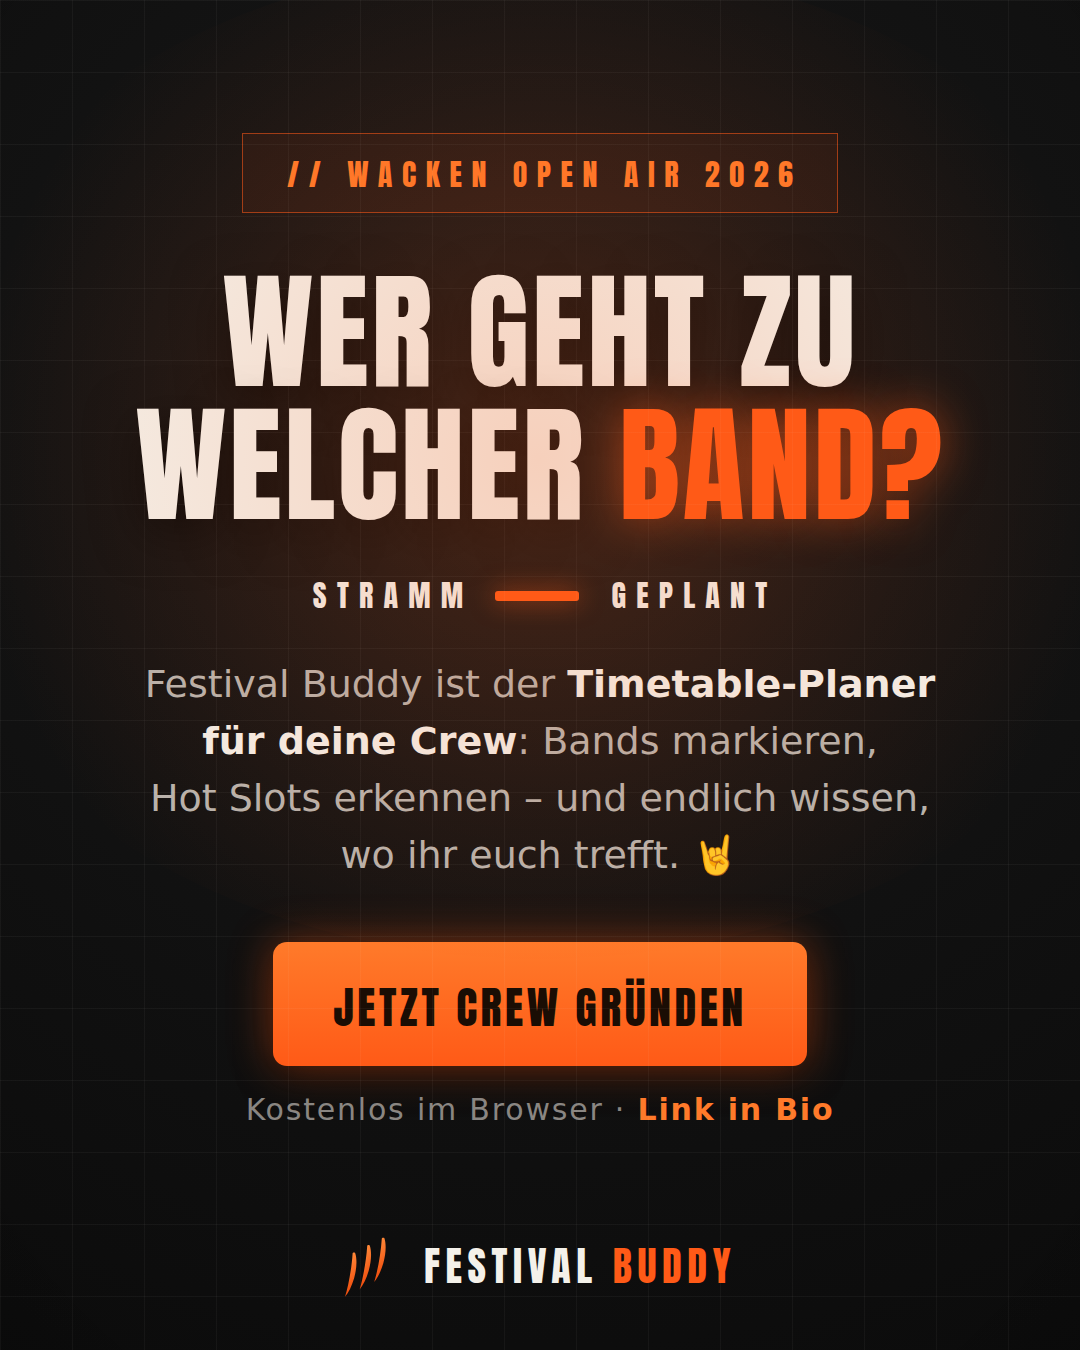
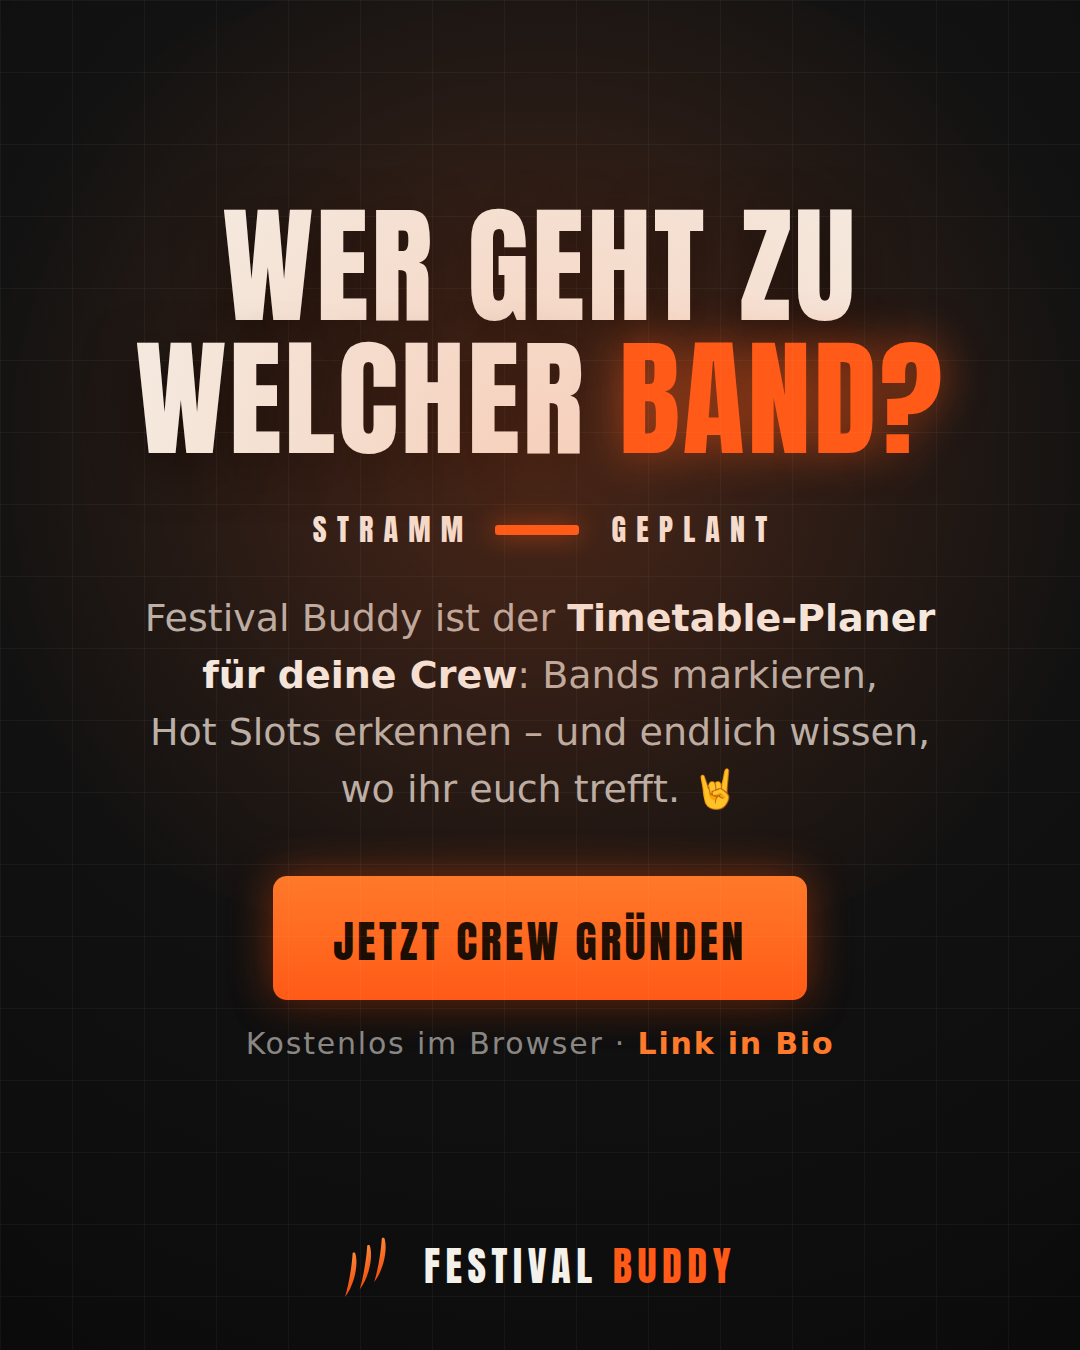
Instagram-Motive: Wacken-Badge raus, Timetable mit Landingpage-Bands
Hero-Motiv ohne das Wacken-Open-Air-Badge (festivalneutral wie die
Landingpage). Das Timetable-Motiv übernimmt Bands, Zeiten, Crew-Punkte
und den Butcher-Sisters-Hot-Slot aus dem Handy-Mockup der Landingpage
(AppScreenshot.tsx); dritte Spalte bündelt die übrigen Bühnen mit
Kürzel am Zeitstempel.

Claude-Session: https://claude.ai/code/session_01F9tuHPih1TVKjt34UxXfgc

Changed region(s): [[0.1222, 0.4356, 0.8556, 0.84], [0.1222, 0.0933, 0.8861, 0.4044]]

diff --git a/marketing/instagram/src/ad-2-timetable.html b/marketing/instagram/src/ad-2-timetable.html
@@ -62,11 +62,11 @@
   .slot .time { font-size: 20px; color: var(--ash); letter-spacing: 0.08em; }
   .slot .band {
     font-family: 'Anton', Impact, sans-serif;
-    font-size: 28px;
+    font-size: 26px;
     letter-spacing: 0.05em;
+    line-height: 1.15;
     margin-top: 3px;
     text-transform: uppercase;
-    white-space: nowrap;
   }
   .dots { display: flex; margin-top: 10px; }
   .dot {
@@ -140,87 +140,97 @@
   <div class="board">
     <div class="stage">
       <div class="stage-name">Faster</div>
-      <div class="slot">
-        <div class="time">17:30 – 18:15</div>
-        <div class="band">Riffwolf</div>
-        <div class="dots">
-          <div class="dot" style="background:#4cc9f0">DA</div>
-          <div class="dot" style="background:#ffd166">MO</div>
-        </div>
-      </div>
-      <div class="slot">
-        <div class="time">19:00 – 19:45</div>
-        <div class="band">Void Sermon</div>
-        <div class="dots">
-          <div class="dot" style="background:#b5e48c">KI</div>
-        </div>
-      </div>
       <div class="slot hot fire-frame">
         <div class="hot-tag">🔥 Hot Slot</div>
-        <div class="time">20:45 – 22:00</div>
-        <div class="band">Iron Verdict</div>
+        <div class="time">18:00 – 19:00</div>
+        <div class="band">The Butcher Sisters</div>
         <div class="dots">
-          <div class="dot" style="background:#4cc9f0">DA</div>
-          <div class="dot" style="background:#ffd166">MO</div>
-          <div class="dot" style="background:#b5e48c">KI</div>
-          <div class="dot" style="background:#f48fb1">SA</div>
-          <div class="dot" style="background:#c8b6ff">LX</div>
-          <div class="dot more">+3</div>
+          <div class="dot" style="background:#35c5d8">DA</div>
+          <div class="dot" style="background:#e0457f">BR</div>
+          <div class="dot" style="background:#e8c33a">CH</div>
+          <div class="dot" style="background:#57c98a">LA</div>
+          <div class="dot more">+4</div>
+        </div>
+      </div>
+      <div class="slot">
+        <div class="time">20:00 – 21:00</div>
+        <div class="band">Electric Bassboy</div>
+        <div class="dots">
+          <div class="dot" style="background:#35c5d8">DA</div>
+          <div class="dot" style="background:#e0457f">BR</div>
+          <div class="dot" style="background:#57c98a">LA</div>
+          <div class="dot more">+1</div>
+        </div>
+      </div>
+      <div class="slot">
+        <div class="time">22:00 – 00:00</div>
+        <div class="band">Hämatom</div>
+        <div class="dots">
+          <div class="dot" style="background:#e0457f">BR</div>
+          <div class="dot" style="background:#57c98a">LA</div>
+          <div class="dot" style="background:#4fb877">JD</div>
+          <div class="dot" style="background:#4a7a9a">BO</div>
         </div>
       </div>
     </div>
 
     <div class="stage">
-      <div class="stage-name">Harder</div>
+      <div class="stage-name">Wackinger</div>
       <div class="slot">
-        <div class="time">17:00 – 17:45</div>
-        <div class="band">Oxide</div>
+        <div class="time">13:30 – 14:15</div>
+        <div class="band">Katerfahrt</div>
         <div class="dots">
-          <div class="dot" style="background:#f48fb1">SA</div>
-          <div class="dot" style="background:#c8b6ff">LX</div>
+          <div class="dot" style="background:#d84a3a">CL</div>
+          <div class="dot" style="background:#35c5d8">DA</div>
+          <div class="dot" style="background:#e8c33a">CH</div>
         </div>
       </div>
       <div class="slot">
-        <div class="time">18:30 – 19:15</div>
-        <div class="band">Gravebound</div>
+        <div class="time">15:00 – 16:00</div>
+        <div class="band">Vogelfrey</div>
         <div class="dots">
-          <div class="dot" style="background:#4cc9f0">DA</div>
-          <div class="dot" style="background:#b5e48c">KI</div>
-          <div class="dot" style="background:#ffd166">MO</div>
+          <div class="dot" style="background:#e0457f">BR</div>
+          <div class="dot" style="background:#57c98a">LA</div>
+          <div class="dot" style="background:#4a7a9a">BO</div>
+          <div class="dot more">+2</div>
         </div>
       </div>
       <div class="slot">
-        <div class="time">20:15 – 21:00</div>
-        <div class="band">Blackout Choir</div>
+        <div class="time">20:15 – 21:15</div>
+        <div class="band">Kupfergold</div>
         <div class="dots">
-          <div class="dot" style="background:#f48fb1">SA</div>
+          <div class="dot" style="background:#e0457f">BR</div>
+          <div class="dot" style="background:#e8c33a">CH</div>
+          <div class="dot" style="background:#b0a8c8">AL</div>
+          <div class="dot more">+2</div>
         </div>
       </div>
     </div>
 
     <div class="stage">
-      <div class="stage-name">Louder</div>
+      <div class="stage-name">Mehr Bühnen</div>
       <div class="slot">
-        <div class="time">17:45 – 18:30</div>
-        <div class="band">Pit Ritual</div>
+        <div class="time">13:30 – 14:30 · LOU</div>
+        <div class="band">Visions of Atlantis</div>
         <div class="dots">
-          <div class="dot" style="background:#c8b6ff">LX</div>
-          <div class="dot" style="background:#b5e48c">KI</div>
+          <div class="dot" style="background:#35c5d8">DA</div>
         </div>
       </div>
       <div class="slot">
-        <div class="time">19:15 – 20:00</div>
-        <div class="band">Ashfall</div>
+        <div class="time">16:00 – 17:00 · LGH</div>
+        <div class="band">Heaven Shall Burn</div>
         <div class="dots">
-          <div class="dot" style="background:#ffd166">MO</div>
+          <div class="dot" style="background:#e0457f">BR</div>
+          <div class="dot" style="background:#35c5d8">DA</div>
+          <div class="dot" style="background:#e8c33a">CH</div>
         </div>
       </div>
       <div class="slot">
-        <div class="time">21:00 – 22:00</div>
-        <div class="band">Moshkönig</div>
+        <div class="time">19:00 – 20:00 · W:T:J</div>
+        <div class="band">Mambo Kurt</div>
         <div class="dots">
-          <div class="dot" style="background:#4cc9f0">DA</div>
-          <div class="dot" style="background:#f48fb1">SA</div>
+          <div class="dot" style="background:#35c5d8">DA</div>
+          <div class="dot" style="background:#e0457f">BR</div>
         </div>
       </div>
     </div>

diff --git a/marketing/instagram/src/ad-1-hero.html b/marketing/instagram/src/ad-1-hero.html
@@ -14,8 +14,6 @@
   .glow { left: 50%; top: 34%; width: 1300px; height: 1000px; transform: translate(-50%, -50%); }
 
 
-  .badge { font-size: 30px; padding: 18px 34px 15px; margin-bottom: 52px; }
-
   h1 {
     font-family: 'Anton', Impact, sans-serif;
     font-weight: 400;
@@ -61,8 +59,6 @@
 <div class="canvas">
   <div class="grid-overlay"></div>
   <div class="glow"></div>
-  <div class="badge">// Wacken Open Air 2026</div>
-
   <h1>Wer geht zu<br>welcher <span class="accent">Band?</span></h1>
 
   <div class="divider"><span>Stramm</span><span class="bar"></span><span>Geplant</span></div>

diff --git a/marketing/instagram/README.md b/marketing/instagram/README.md
@@ -11,8 +11,9 @@ Kratzer-Logo wie im App-Icon).
 | `ad-2-timetable.png` | 1080×1080 (1:1) | Feed-Anzeige: Timetable-Grid mit Crew-Punkten & Hot Slot |
 | `ad-3-story.png` | 1080×1920 (9:16) | Story-Anzeige: Offline-Modus („Kein Netz? Kein Problem.") |
 
-Die Bandnamen im Timetable-Motiv sind frei erfunden (keine echten Bands,
-keine Rechte-Probleme). Der brennende Hot Slot entsteht beim Rendern über
+Das Timetable-Motiv zeigt dieselben Bands und Crew-Punkte wie das
+Handy-Mockup der Landingpage (src/components/AppScreenshot.tsx auf
+festivalbuddy.app). Der brennende Hot Slot entsteht beim Rendern über
 dieselbe Doom-Fire-Simulation wie in der App (`src/lib/client/fireEngine.ts`),
 statisch vorsimuliert – jedes Rendern ergibt daher leicht andere Flammen. Die Story lässt oben/unten Platz für die
 Instagram-UI (Profilzeile, „Link"-Sticker).